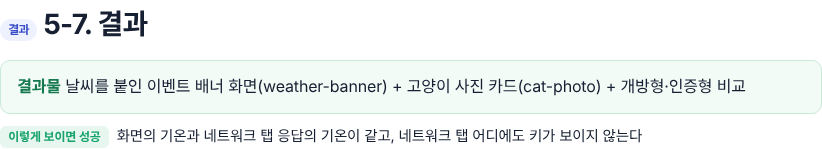
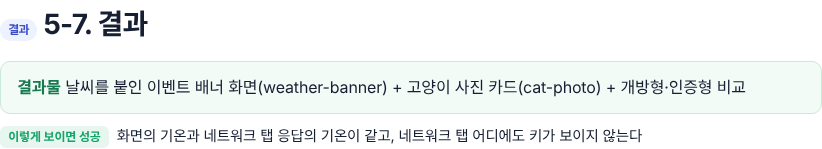
4주차 DAY2 5-6: 비즈니스 관점에서 본 개방형·인증형 차이 참고 상자 추가
Claude-Session: https://claude.ai/code/session_01C4uqyBCXUHPCt3UW7YdcGu

Changed region(s): [[0.0, 0.5101, 0.9124, 0.6443], [0.0, 0.4027, 1.0, 0.4295]]

diff --git a/261116-ai-pm-week4/d2-api.html b/261116-ai-pm-week4/d2-api.html
@@ -860,6 +860,22 @@ aside nav a.active{border-left-color:var(--blue)}
 <tr><td><b>운영 주체</b></td><td>오픈소스 커뮤니티, 비영리 단체, 개인</td><td>대기업(구글, 카카오 등), 정부 기관, 상용 서비스</td></tr>
 <tr><td><b>오늘 쓴 예</b></td><td>The Cat API(고양이 사진)</td><td>OpenWeather(날씨), 기상청 단기예보(공공데이터포털)</td></tr>
 </table></div>
+<div class="ref-box"><b>참고 · 비즈니스 관점에서 본 개방형과 인증형의 차이</b>
+<p>API Key가 있느냐 없느냐는 "누가 우리 서버를 얼마나 쓰는지 통제할 필요가 있는가?"라는 운영자(제공자)의 목적에 따라 정해져요. 쉽게 비유하면 '누구나 자유롭게 들어가는 공원(키 없음)'과 '출입증을 찍고 들어가는 건물(키 필요)'의 차이예요.</p>
+<p><b>1. API Key가 필요한 이유 (출입증 모델)</b><br/>운영자 입장에서 서버 비용이 많이 들거나, 데이터의 가치가 높거나, 악용될 소지가 클 때 키를 요구해요.</p>
+<ul>
+<li><b>트래픽 통제와 서버 보호:</b> 특정 사용자가 1초에 수만 번씩 요청을 보내 서버를 다운시키는 공격(DDoS 등)이나 과부하를 막으려고, 키별로 하루 호출 횟수(예: 하루 1,000건)를 제한해요.</li>
+<li><b>악용 방지와 책임 추적:</b> 공공데이터나 민감한 정보를 무분별하게 긁어 가거나(크롤링) 불법적인 용도로 쓰면, 그 키의 주인을 찾아 차단하기 위해서예요.</li>
+<li><b>유료화(과금) 연결:</b> 무료 티어(기본 제공량)를 넘어 더 많은 데이터를 쓰려는 기업이나 개발자에게 요금을 매기는 측정 도구로 써요.</li>
+<li><b>맞춤형 데이터 제공:</b> 사용자마다 권한이 다른 데이터(예: 내 유튜브 재생목록, 내 구글 캘린더)를 불러올 때는 신원 확인이 꼭 필요해요.</li>
+</ul>
+<p><b>2. API Key가 필요 없는 이유 (개방형 모델)</b><br/>운영자가 트래픽 통제보다 '접근성과 편의성'을 가장 앞에 둘 때 키를 없애요.</p>
+<ul>
+<li><b>교육과 테스트 목적:</b> 개발자가 회원가입이나 복잡한 설정 없이 바로 코드로 호출해 보며 배울 수 있게 돕기 위해서예요. (예: JSONPlaceholder)</li>
+<li><b>정적(Static)이거나 가벼운 데이터:</b> 실시간으로 복잡한 연산을 하지 않고, 이미 만들어진 고정된 데이터(예: 국가 정보, 포켓몬 도감)를 단순 조회만 하는 경우예요. 서버 부담이 적어서 굳이 키를 만들지 않아요.</li>
+<li><b>순수 공익과 오픈소스 생태계 기여:</b> 후원이나 기부, 연구 목적으로 운영되며, 전 세계 누구나 장벽 없이 데이터를 쓰길 바라는 경우예요. (예: Open-Meteo)</li>
+</ul>
+</div>
 <h4>기획자는 이렇게 써요</h4>
 <ul>
 <li>아이디어를 빠르게 시험할 때는 개방형 API로 화면을 먼저 만들어 봐요. 키와 서버가 없어서 바로 돌아가요.</li>

diff --git a/_pr-notes/PR_d2고양이API·API유형_261118/README.md b/_pr-notes/PR_d2고양이API·API유형_261118/README.md
@@ -19,3 +19,7 @@
 
 ## 화면
 ![](s5-5_후.png) ![](s5-6_후.png) ![](s5-7_후.png) ![](s5-6_390_후.png)
+
+## 2차 (같은 날) — 5-6에 '참고 · 비즈니스 관점에서 본 개방형과 인증형의 차이' 상자 추가
+- 로린님 원문을 교안 말투(해요체)로만 바꾸고 내용·예시는 그대로 둠: 출입증 모델 4가지 이유, 개방형 모델 3가지 이유(JSONPlaceholder, 국가 정보·포켓몬 도감, Open-Meteo)
+- 상충 지점: 2026-11-18 정한 '학생용 개념 설명은 비유를 쓰지 않는다' 규칙과 원문의 공원/출입증 비유가 겹침 → 원문대로 남겼고, 뺄지 로린님 확인 필요
